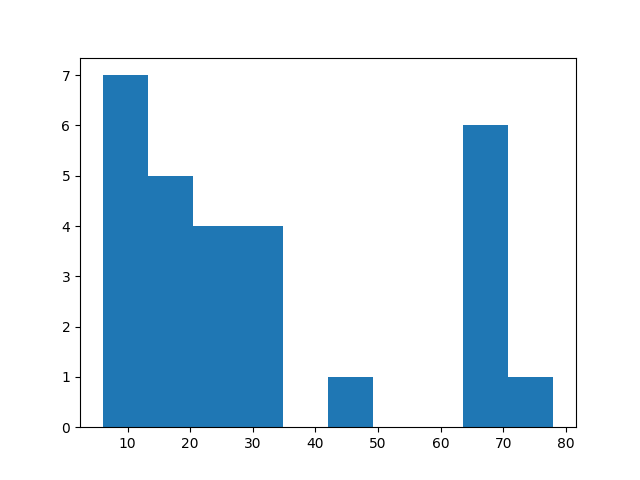
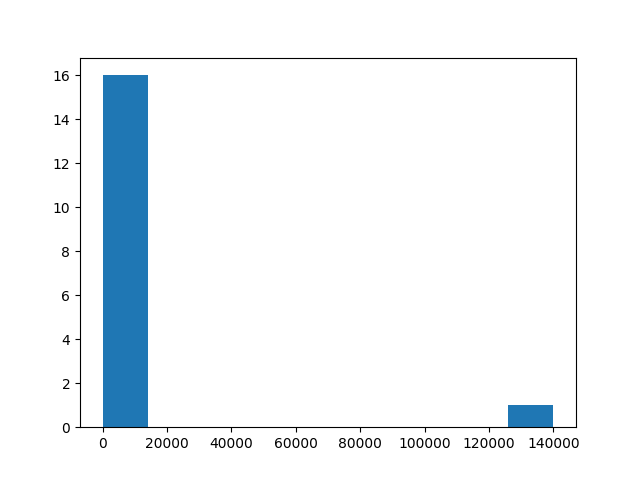
fixed1

diff --git a/mainsite/templates/mainsite/result.html b/mainsite/templates/mainsite/result.html
@@ -22,7 +22,7 @@
 		 <br/>
 		 BOXPLOT AND HIST:{% load staticfiles %}<br/>
 		<table><tr>
-             <td> <img src="{% static 'images/boxplot.png' %}"></td>
+             <td> <img src="{% static  'images/boxplot.png' %}"></td>
 			 <td><img src="{% static 'images/hist.png' %}"></td>
 		</tr></table>
         </h3>

diff --git a/mainsite/views.py b/mainsite/views.py
@@ -22,10 +22,8 @@ import matplotlib
 
 matplotlib.use('Agg')
 
-from matplotlib import pyplot
-
-from matplotlib.figure import Figure                      
-
+import matplotlib.pyplot as plt          
+import os
 
 
 
@@ -129,10 +127,15 @@ def datalabs(request):
     return render(request,'mainsite/datalabs.html',context)
 
 def desstat(request):
+    os.remove('mainsite/static/images/boxplot.png')
+    os.remove('mainsite/static/images/hist.png')
     return render(request,'mainsite/desstat.html')
 
+
+	
 def result(request):
-    #template=get_template('desstat.html')
+    
+	#template=get_template('desstat.html')
     requestData=request.GET.copy()
     data=requestData['user_data']
     data=data.encode('utf-8')
@@ -147,13 +150,15 @@ def result(request):
     datastd=round(std(datanum),3)
     datacv=round((datastd/datamean*100),3)
     
-    pyplot.boxplot(datanum)
-    pyplot.savefig('mainsite/static/images/boxplot.png')
-    pyplot.close()
+    
+    plt.boxplot(datanum)
+    plt.savefig('mainsite/static/images/boxplot.png')
+    plt.close()
 	
-    pyplot.hist(datanum)
-    pyplot.savefig('mainsite/static/images/hist.png')
-    pyplot.close()
+    
+    plt.hist(datanum)
+    plt.savefig('mainsite/static/images/hist.png')
+    plt.close()
 
     
     

diff --git a/MessyData/settings.py b/MessyData/settings.py
@@ -124,6 +124,8 @@ STATIC_URL = '/static/'
 
 STATIC_ROOT = os.path.join(BASE_DIR, 'static')
 
+
+
 LOGIN_URL='/users/login/'
 
 BOOTSTRAP3={
@@ -142,6 +144,7 @@ if os.getcwd()=='/app':
     DEBUG=False
     BASE_DIR=os.path.dirname(os.path.abspath(__file__))
     #STATIC_ROOT = os.path.join(BASE_DIR, 'static')
+
     STATICFILES_DIRS=(
         os.path.join(BASE_DIR,'static')
     )

diff --git a/mainsite/models.py b/mainsite/models.py
@@ -99,6 +99,8 @@ class DataLab(models.Model):
     def __unicode__(self):
         return self.title
 
+
+		
 '''class StatEntry(models.Model):
     title=models.ForeignKey(Statistic)
     #text=models.TextField()
